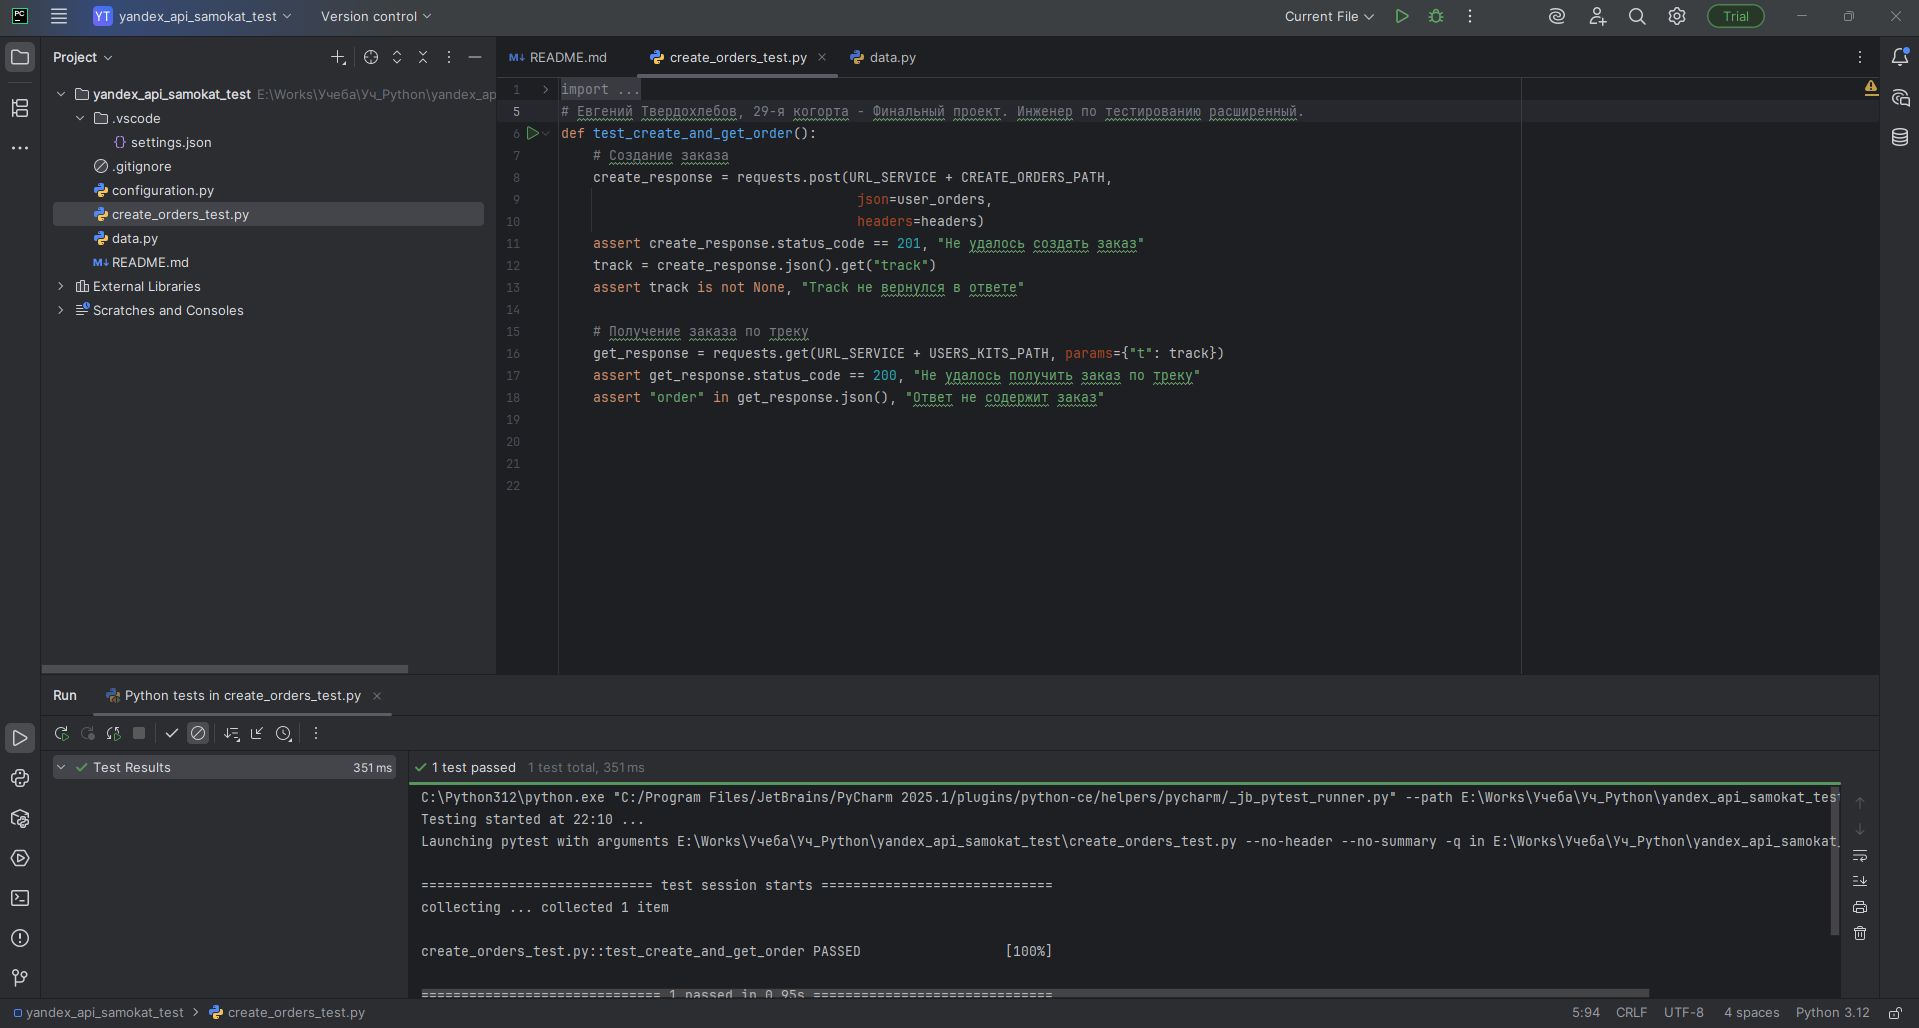
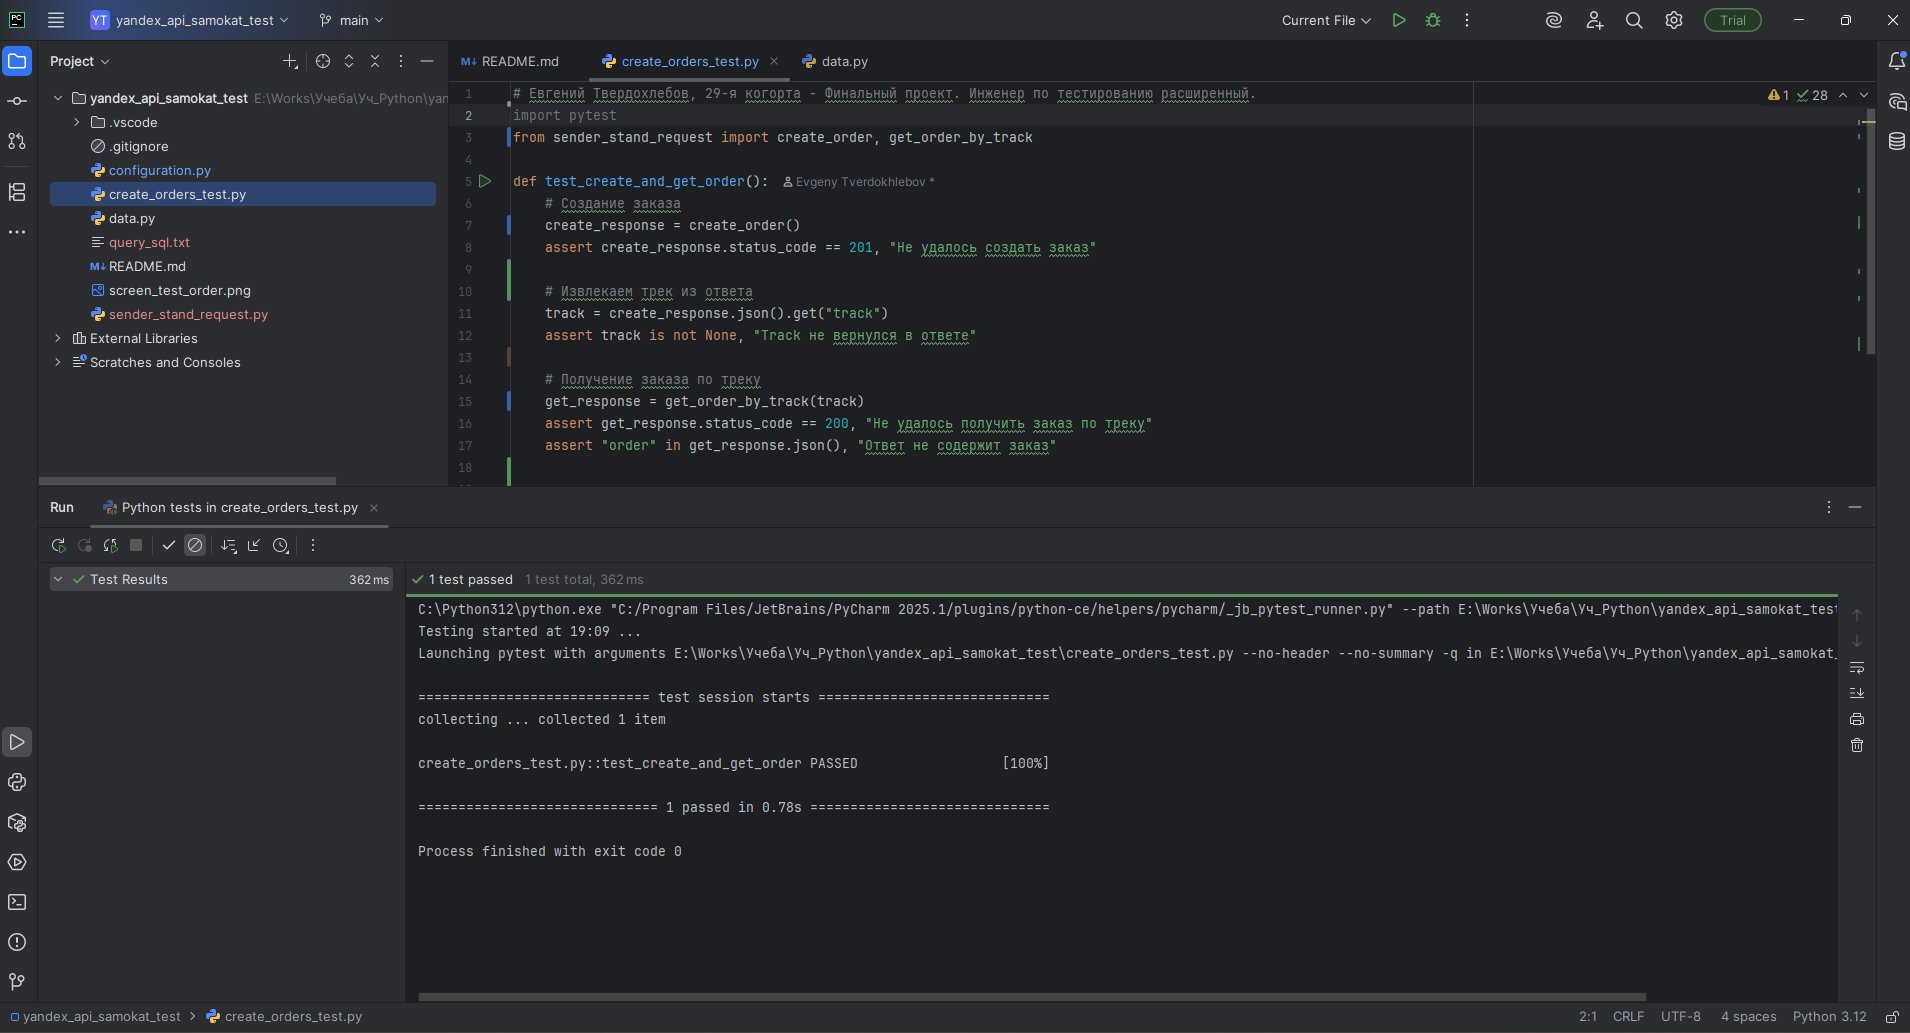
Восстановлены удалённые файлы и добавлены новые

diff --git a/create_orders_test.py b/create_orders_test.py
@@ -1,22 +1,21 @@
 # Евгений Твердохлебов, 29-я когорта - Финальный проект. Инженер по тестированию расширенный.
-import requests
 import pytest
-from configuration import URL_SERVICE, CREATE_ORDERS_PATH, USERS_KITS_PATH
-from data import user_orders, headers
+from sender_stand_request import create_order, get_order_by_track
 
 def test_create_and_get_order():
     # Создание заказа
-    create_response = requests.post(URL_SERVICE + CREATE_ORDERS_PATH,
-                                     json=user_orders,
-                                     headers=headers)
+    create_response = create_order()
     assert create_response.status_code == 201, "Не удалось создать заказ"
+    
+    # Извлекаем трек из ответа
     track = create_response.json().get("track")
     assert track is not None, "Track не вернулся в ответе"
-
+    
     # Получение заказа по треку
-    get_response = requests.get(URL_SERVICE + USERS_KITS_PATH, params={"t": track})
+    get_response = get_order_by_track(track)
     assert get_response.status_code == 200, "Не удалось получить заказ по треку"
     assert "order" in get_response.json(), "Ответ не содержит заказ"
+
 
 
 

diff --git a/configuration.py b/configuration.py
@@ -1,7 +1,7 @@
 # URL_SERVICE хранит базовый URL веб-сервиса, который используется для доступа к API или другим ресурсам.
 # Значение должно быть скопировано из настроек или документации сервиса, к которому предоставляется доступ.
 # Пример значения: "https://api.example.com"
-URL_SERVICE = 'https://e3ec114d-aa23-4553-90f9-17c7ef17e77e.serverhub.praktikum-services.ru/'
+URL_SERVICE = 'https://3c13fa97-da09-4589-a60f-d3808236faa8.serverhub.praktikum-services.ru/'
 
 
 # Путь для cоздание заказа

diff --git a/sender_stand_request.py b/sender_stand_request.py
@@ -1,0 +1,15 @@
+import requests
+from configuration import URL_SERVICE, CREATE_ORDERS_PATH, USERS_KITS_PATH
+from data import user_orders, headers
+
+# Функция для создания заказа
+def create_order():
+    response = requests.post(URL_SERVICE + CREATE_ORDERS_PATH,
+                             json=user_orders,
+                             headers=headers)
+    return response
+
+# Функция для получения информации о заказе по треку
+def get_order_by_track(track):
+    response = requests.get(URL_SERVICE + USERS_KITS_PATH, params={"t": track})
+    return response

diff --git a/README.md b/README.md
@@ -8,6 +8,7 @@
 - yandex_api_samokat_test:
     - configuration.py # Пути и базовый URL
     - create_order_test.py # Набор тестов
+    - sender_stand_request.py: POST-запрос на создание заказа, GET-запросы на получение номера заказа и на получение заказа по номеру
     - data.py # Тестовые данные (user_orders)
     - README.md # Документация проекта
     - .gitignore # Исключения
@@ -18,6 +19,9 @@
 
 # Типы тестирования.
 - Позитивное автотестирование 
+
+# Что проверяет тест
+- после запроса на получение заказа по треку заказа приходит код ответа 200
 
 # Пример тест-кейсов.
 -   №	Описание	                                ОР: Код ответа — 200
